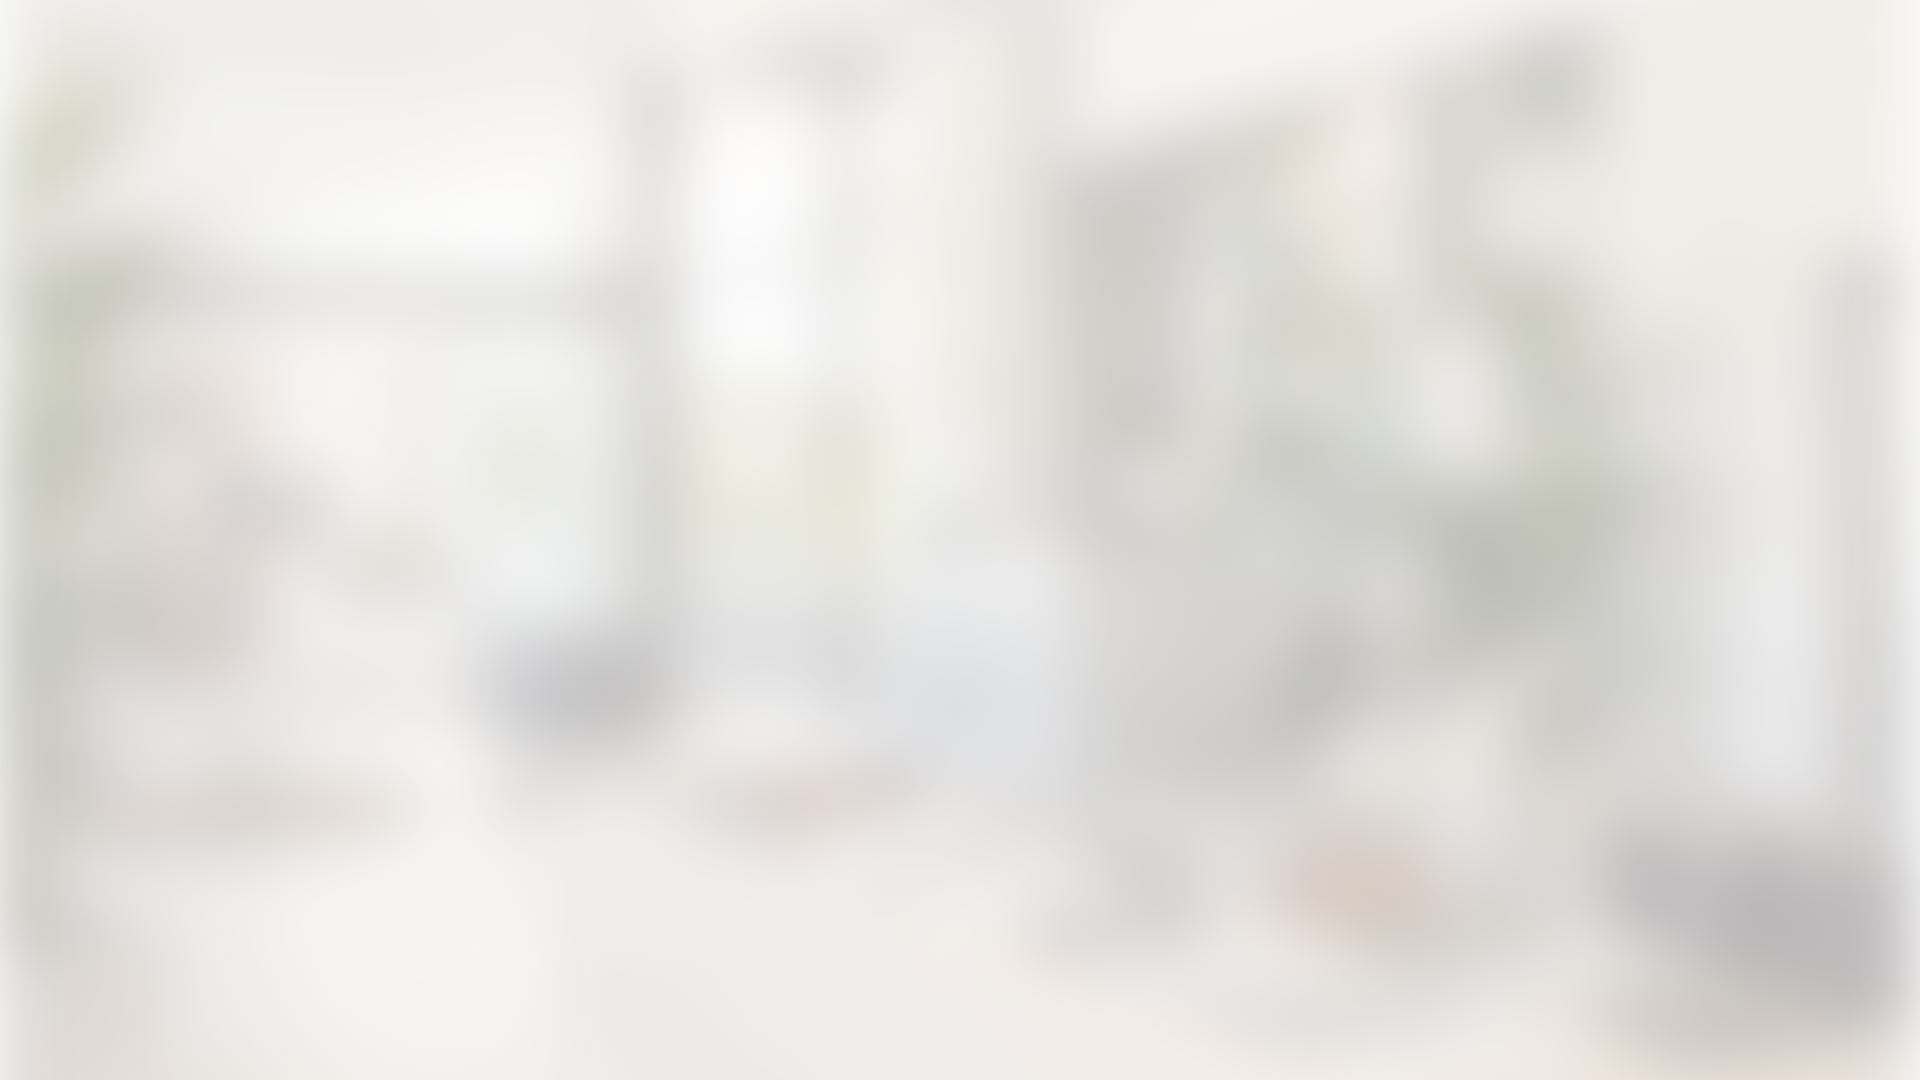
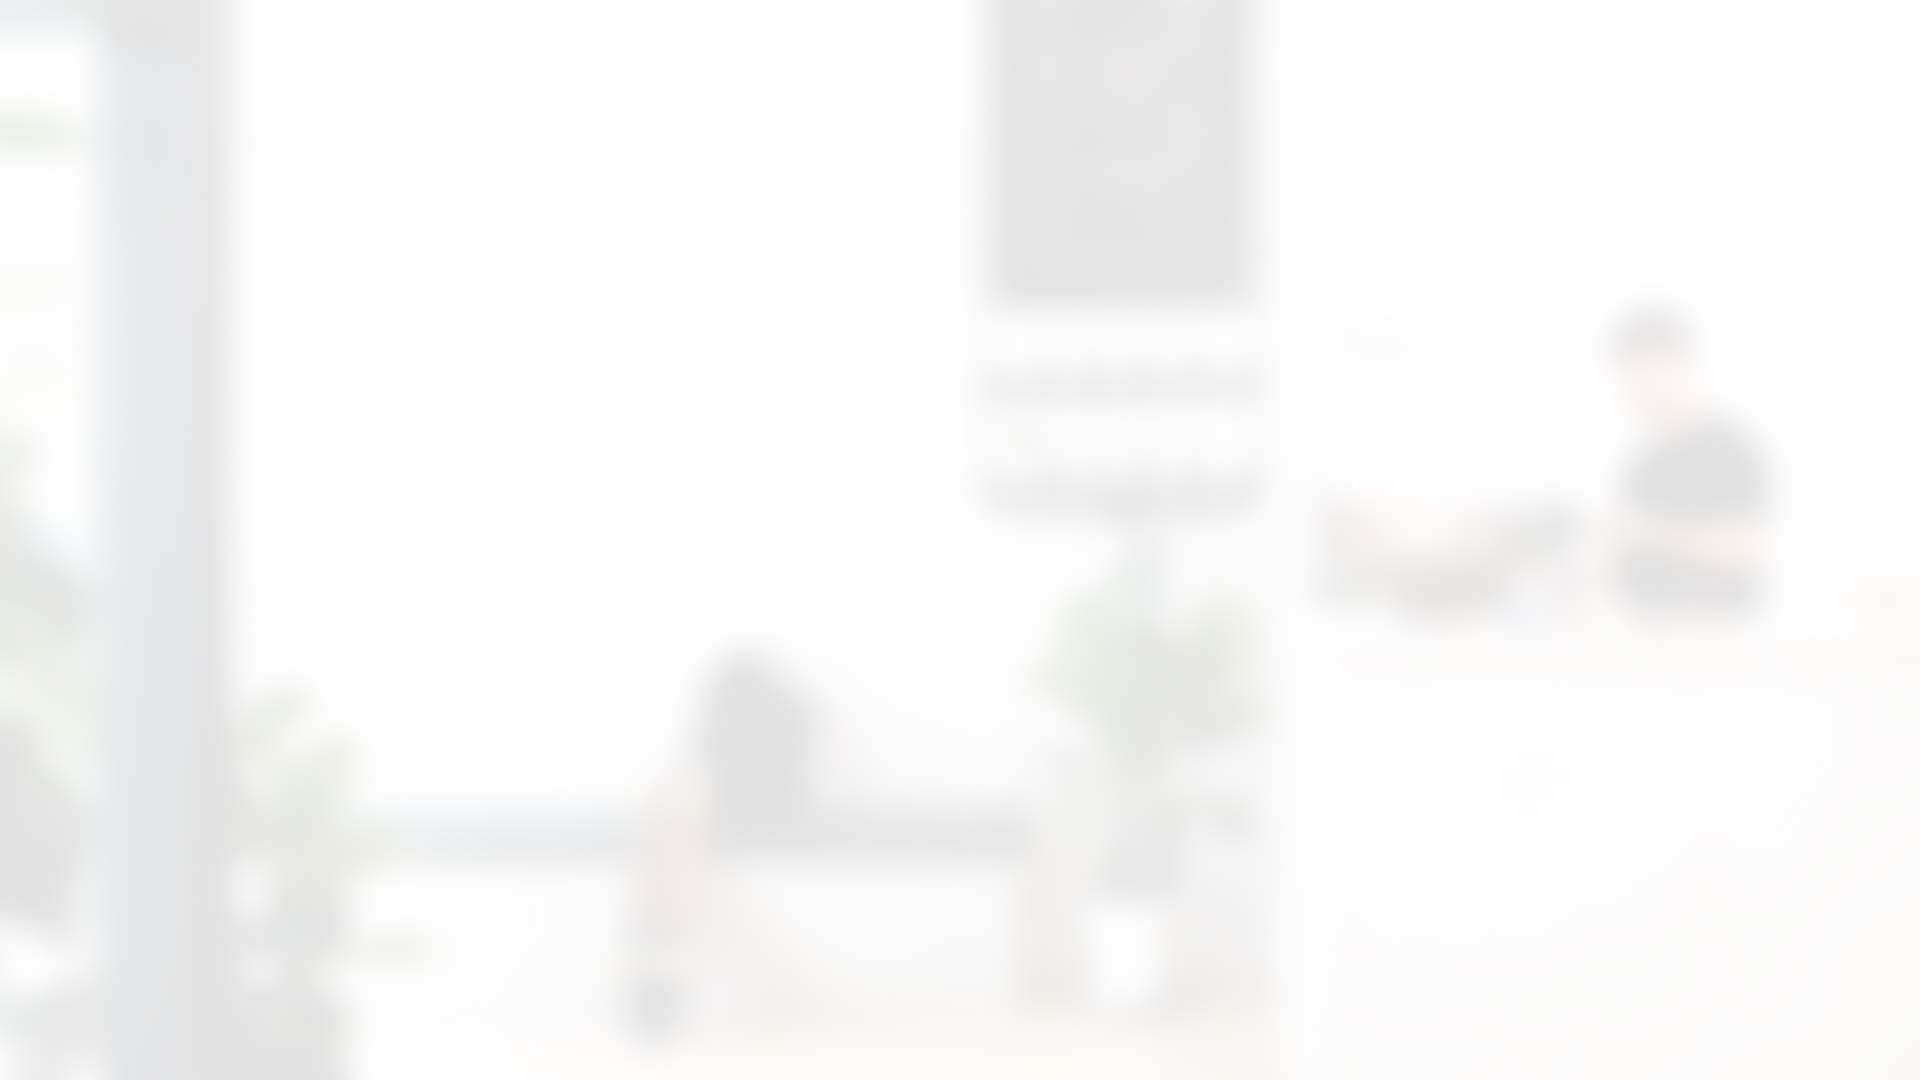
Замена картинки на главной

diff --git a/app/assets/stylesheets/page/static/index.scss b/app/assets/stylesheets/page/static/index.scss
@@ -77,7 +77,7 @@
       .fade_in {
         background: {
           image: image_url('pages/index/rec.jpg');
-          position: center;
+          position: 15% center;
           size: cover;
         }
       }
@@ -85,7 +85,7 @@
       .fade_out {
         background: {
           image: image_url('pages/index/rec_blur.jpg');
-          position: center;
+          position: 15% center;
           size: cover;
         }
       }
@@ -105,7 +105,7 @@
       justify-content: center;
 
       &_about {
-        color: $op-color;
+        // color: $op-color;
         opacity: 0;
 
         .desc {
@@ -114,10 +114,14 @@
       }
 
       &_contacts {
-        padding: $space-s $gutter;
-        background-color: rgba($op-color, 0.7);
-        margin-top: $base-rhythm-line * 15;
+        // padding: $space-s $gutter;
+        // background-color: rgba($op-color, 0.7);
+        margin-top: $base-rhythm-line * 6;
+        margin-bottom: $base-rhythm-line * 10;
         opacity: 0;
+
+        // transition-delay: 2s;
+        animation-delay: 0.4s;
 
         .tap {
           display: flex;
@@ -129,7 +133,7 @@
         }
 
         @include mq($s) {
-          margin-left: auto;
+          // margin-right: auto;
           max-width: 320px;
 
           .tap, .address {
@@ -140,27 +144,27 @@
       }
 
       @include mq($m) {
-        &_about {
+        &_about, &_contacts {
           width: 6 / 16 * 100%;
           margin-left: 2 / 16 * 100%;
         }
 
-        &_contacts {
-          width: 6 / 16 * 100%;
-          max-width: none;
-          margin-right: 2 / 16 * 100%;
-        }
+        // &_contacts {
+        //   width: 6 / 16 * 100%;
+        //   max-width: none;
+        //   margin-right: 2 / 16 * 100%;
+        // }
       }
 
       @include mq($l) {
-        &_about {
+        &_about, &_contacts {
           width: 4 / 16 * 100%;
         }
 
-        &_contacts {
-          padding: $space-s2 $gutter * 3;
-          width: 4 / 16 * 100%;
-        }
+        // &_contacts {
+        //   padding: $space-s2 $gutter * 3;
+        //   width: 4 / 16 * 100%;
+        // }
       }
     }
 
